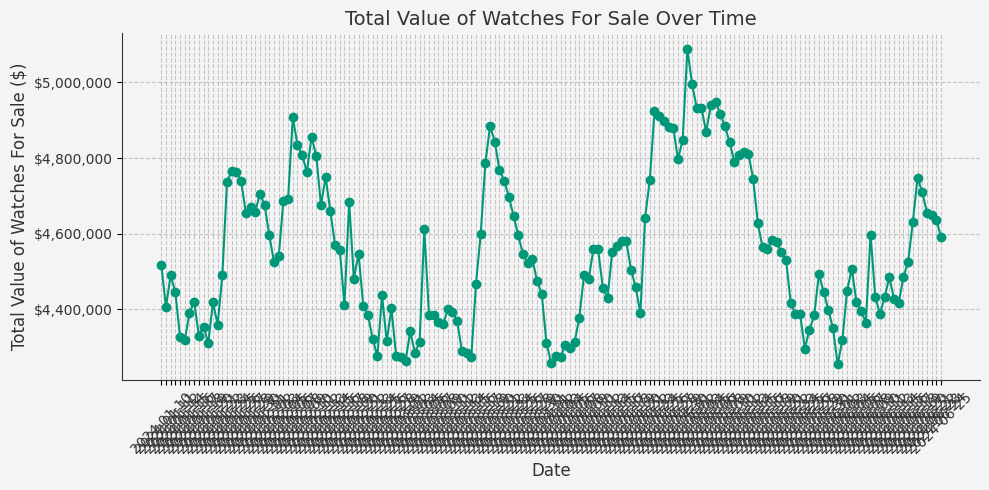
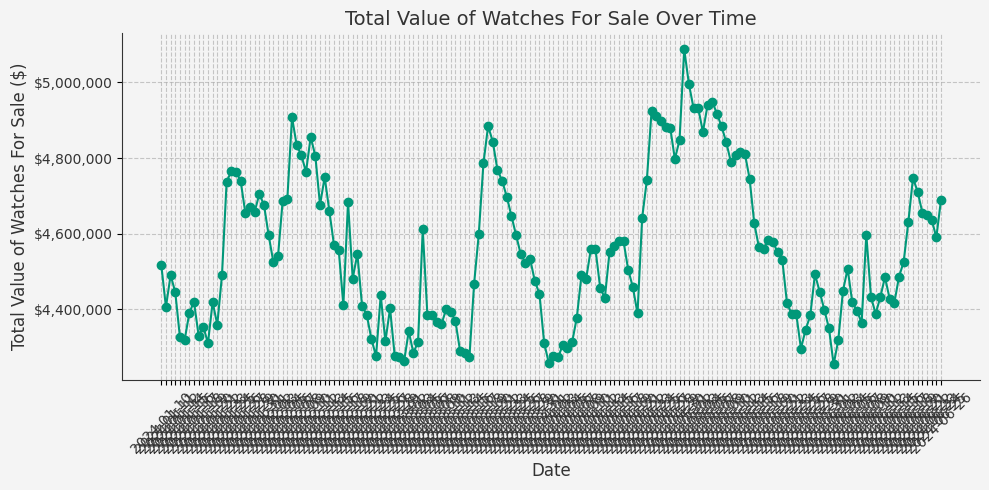
Update docs, portfolio image and portfolio statistics

Changed region(s): [[0.1517, 0.0612, 1.0, 0.949]]

diff --git a/docs/index.html b/docs/index.html
@@ -54,12 +54,12 @@
     </style>
 </head>
 <body>
-    <h1>Watch Data Report - 2024-06-25</h1>
+    <h1>Watch Data Report - 2024-06-26</h1>
     <div class="stats">
         <h3>Summary Statistics</h3>
-        <p>Value of sold Watches: $114,750.00</p>
-        <p>Value of listed Watches: $79,800.00</p>
-        <p>Value of unsold Watches: $4,590,400.00</p>
+        <p>Value of sold Watches: $0.00</p>
+        <p>Value of listed Watches: $99,250.00</p>
+        <p>Value of unsold Watches: $4,689,650.00</p>
     </div>
     <h2>Price Changes Today:</h2>
     <table border="1" class="dataframe table">
@@ -72,42 +72,6 @@
     </tr>
   </thead>
   <tbody>
-    <tr>
-      <td>1975 Rolex Daytona 6263 Black Sigma Dial</td>
-      <td>$67,550.00</td>
-      <td>$59,850.00</td>
-      <td><a href="https://tropicalwatch.com/watches/dret" target="_blank">Link</a></td>
-    </tr>
-    <tr>
-      <td>1988 Rolex Submariner 16610</td>
-      <td>$9,150.00</td>
-      <td>$8,950.00</td>
-      <td><a href="https://tropicalwatch.com/watches/fsgl" target="_blank">Link</a></td>
-    </tr>
-    <tr>
-      <td>1978 Rolex Submariner 1680 White Dial</td>
-      <td>$15,750.00</td>
-      <td>$14,950.00</td>
-      <td><a href="https://tropicalwatch.com/watches/gv8g" target="_blank">Link</a></td>
-    </tr>
-    <tr>
-      <td>2022 Iwc Ceratanium Pilot Chronograph Iw388106 Matte Black Dial With Box And Papers</td>
-      <td>$13,650.00</td>
-      <td>$11,950.00</td>
-      <td><a href="https://tropicalwatch.com/watches/kvto" target="_blank">Link</a></td>
-    </tr>
-    <tr>
-      <td>1990'S Audemars Piguet 18K Wg Cobra Blue Diamond Dial</td>
-      <td>$8,850.00</td>
-      <td>$8,350.00</td>
-      <td><a href="https://tropicalwatch.com/watches/bkev" target="_blank">Link</a></td>
-    </tr>
-    <tr>
-      <td>Iwc Pilot'S Watch Chronograph Edition "Tribute To 3705" Iw387905</td>
-      <td>$8,350.00</td>
-      <td>$7,950.00</td>
-      <td><a href="https://tropicalwatch.com/watches/lhhl" target="_blank">Link</a></td>
-    </tr>
   </tbody>
 </table>
 
@@ -122,24 +86,19 @@
   </thead>
   <tbody>
     <tr>
-      <td>1986 Rolex 18K Yg Day-Date 18038 White Roman Numeral Dial</td>
-      <td>$17,350.00</td>
-      <td><a href="https://tropicalwatch.com/watches/mpml" target="_blank">Link</a></td>
+      <td>1967 Rolex Gmt-Master 1675 Mk 1 Small Hand With Box And Papers</td>
+      <td>$25,850.00</td>
+      <td><a href="https://tropicalwatch.com/watches/uqdi" target="_blank">Link</a></td>
     </tr>
     <tr>
-      <td>1982 Rolex Gmt-Master 16750 Matte Dial</td>
-      <td>$17,350.00</td>
-      <td><a href="https://tropicalwatch.com/watches/767u" target="_blank">Link</a></td>
+      <td>Patek Philippe 18K Wg Calatrava 3606 Blue Dial</td>
+      <td>$9,850.00</td>
+      <td><a href="https://tropicalwatch.com/watches/jjtw" target="_blank">Link</a></td>
     </tr>
     <tr>
-      <td>1990 Rolex Air-King 14000 Domino'S Pizza Dial With Hang Tag</td>
-      <td>$10,550.00</td>
-      <td><a href="https://tropicalwatch.com/watches/hhga" target="_blank">Link</a></td>
-    </tr>
-    <tr>
-      <td>1972 Rolex Double Red Sea-Dweller 1665 Mark Iii Dial</td>
-      <td>$34,550.00</td>
-      <td><a href="https://tropicalwatch.com/watches/qlcj" target="_blank">Link</a></td>
+      <td>1973 Rolex Daytona 6265 Silver Flat Subdial Dial With Box And Papers</td>
+      <td>$63,550.00</td>
+      <td><a href="https://tropicalwatch.com/watches/fbra" target="_blank">Link</a></td>
     </tr>
   </tbody>
 </table>
@@ -154,51 +113,6 @@
     </tr>
   </thead>
   <tbody>
-    <tr>
-      <td>2000 Rolex Datejust 16220 White Dial</td>
-      <td>Sold</td>
-      <td><a href="https://tropicalwatch.com/watches/qvar" target="_blank">Link</a></td>
-    </tr>
-    <tr>
-      <td>2000 Rolex Explorer Ii 16570 White Dial With Papers</td>
-      <td>Sold</td>
-      <td><a href="https://tropicalwatch.com/watches/6ytt" target="_blank">Link</a></td>
-    </tr>
-    <tr>
-      <td>2023 Rolex Oyster Perpetual Green 124300 Dial With Box And Papers</td>
-      <td>Sold</td>
-      <td><a href="https://tropicalwatch.com/watches/j3xh" target="_blank">Link</a></td>
-    </tr>
-    <tr>
-      <td>2014 Rolex Sea-Dweller 116600 With Box And Papers</td>
-      <td>Sold</td>
-      <td><a href="https://tropicalwatch.com/watches/60vg" target="_blank">Link</a></td>
-    </tr>
-    <tr>
-      <td>2021 Rolex Date 115200 White Dial With Box And Papers</td>
-      <td>Sold</td>
-      <td><a href="https://tropicalwatch.com/watches/fpdo" target="_blank">Link</a></td>
-    </tr>
-    <tr>
-      <td>1984 Rolex 18K Yg Day-Date 18038 Black Dial</td>
-      <td>Sold</td>
-      <td><a href="https://tropicalwatch.com/watches/mtye" target="_blank">Link</a></td>
-    </tr>
-    <tr>
-      <td>1970 Rolex Red Submariner 1680 Mk 2 Meters First Tropical Dial</td>
-      <td>Sold</td>
-      <td><a href="https://tropicalwatch.com/watches/3apk" target="_blank">Link</a></td>
-    </tr>
-    <tr>
-      <td>2023 Rolex Explorer 124270 With Box And Papers</td>
-      <td>Sold</td>
-      <td><a href="https://tropicalwatch.com/watches/uhjc" target="_blank">Link</a></td>
-    </tr>
-    <tr>
-      <td>1984 Rolex Sea-Dweller 1665 With Box And Papers</td>
-      <td>Sold</td>
-      <td><a href="https://tropicalwatch.com/watches/dnyt" target="_blank">Link</a></td>
-    </tr>
   </tbody>
 </table>
 
